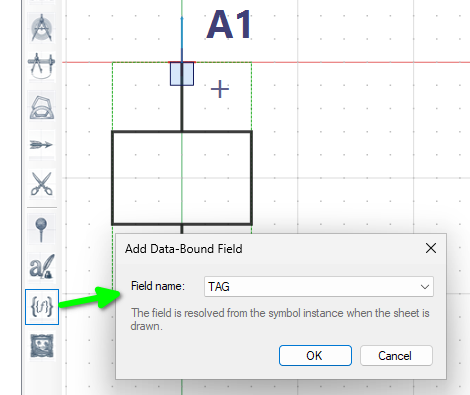
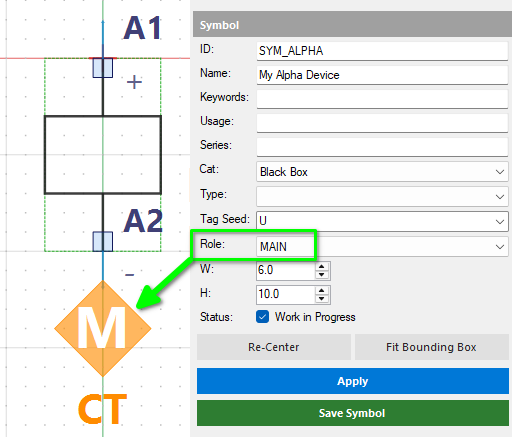
docs(tutorial): Ch8 gains Part 5 Contact Roles in a symbol; shots renumbered 15-24

diff --git a/control-circuit-2026/docs/tutorial/08-symbol-editor-basics/index.html b/control-circuit-2026/docs/tutorial/08-symbol-editor-basics/index.html
@@ -27,7 +27,7 @@
 
   <p>There are many additional elements that make a symbol smarter, the chief one being the <b>Field</b>. Fields are pre-defined variable placeholders, for example KW, AMPS or FLC. In the Symbol Editor they appear as placeholder text, but on a Sheet they become dynamic and can be populated with specific values for each symbol, ready for reports and other outputs.</p>
 
-  <p>In this chapter we cover the basics: the use and management of libraries, creating a symbol, and adding Pins, a Tag and Fields.</p>
+  <p>In this chapter we cover the basics: the use and management of libraries, creating a symbol, and adding Pins, a Contact Role, a Tag and Fields.</p>
 
   <h2>Part 1: Getting around</h2>
 
@@ -69,7 +69,7 @@
     <li><b>Name</b> is how the symbol appears in the library listing, what you will see in the explorer.</li>
     <li><b>Cat</b> (Category) and <b>Type</b> are useful for sorting.</li>
     <li><b>Tag Seed</b> pre-seeds the Tag when the symbol is pulled onto a Sheet. Very important.</li>
-    <li><b>Role</b> sets the default Contact Role, as met in the previous chapter: <b>MAIN</b>, <b>NO</b>, <b>NC</b> or <b>AUX</b>, depending on the function of the component.</li>
+    <li><b>Role</b> sets the default Contact Role, as met in the previous chapter: <b>MAIN</b>, <b>NO</b>, <b>NC</b> or <b>AUX</b>, depending on the function of the component. More on this in Part 5.</li>
     <li><b>W</b> and <b>H</b> are the <b>Bounding Box</b> (BB). On a Sheet the BB is the highlighted perimeter displayed when the symbol is selected. In the Symbol Editor it is the green dotted rectangle running from the red origin cross to the extents of all the primitives. Text objects are not included in the BB.</li>
     <li><b>Status</b>: if you have started one or more symbol designs, they are works in progress, so set the status accordingly. These symbols are marked in the tree, and they can be searched for in the library regardless of which section they are in.</li>
   </ul>
@@ -169,7 +169,29 @@
     </li>
   </ol>
 
-  <h2>Part 5: Adding Fields</h2>
+  <h2>Part 5: Contact Roles in a symbol</h2>
+
+  <p>If we know that a certain symbol will usually represent a certain Contact Role, we may optionally choose that role and set it as the default in the symbol. When the symbol is brought onto a Sheet, its <b>Role</b> will show something like <b>None (Inherit: MAIN)</b>. If you leave the Role out at the symbol stage you can still choose one on the Sheet, and if you do set one in the symbol you can still change it on the Sheet.</p>
+
+  <p>Once a Role has been selected in the Symbol Editor, a diamond glyph is shown on the symbol. The <b>M</b> denotes <b>MAIN</b>, and the <b>CT</b> beneath it stands for the <b>Contact Table</b>, which a MAIN element carries. You can mouse down on the diamond and move it to suit. Once the symbol is in use on a Sheet you will also have <b>Role X</b> and <b>Role Y</b> values to fine tune the position if required.</p>
+
+  <figure>
+    <img src="15.png" alt="The Role drop down set to MAIN, with a green arrow to the orange M diamond and its CT text below the symbol" width="512" height="437">
+  </figure>
+
+  <p>In the next example the Role is set to <b>NO</b> (Normally Open), so the diamond displays an <b>O</b>. Normally Closed shows a <b>C</b> and AUX shows an <b>A</b>.</p>
+
+  <figure>
+    <img src="16.png" alt="The Role drop down set to NO, with a green arrow to the orange O diamond" width="451" height="200">
+  </figure>
+
+  <p>Finally, here is a symbol with an assigned Contact Role once it has been brought onto a Sheet. As this is a MAIN element, you will notice that <b>Browse Parent Coils&hellip;</b> is greyed out: only the child roles (NO, NC and AUX) need to find a parent.</p>
+
+  <figure>
+    <img src="17.png" alt="A placed symbol with its Cross Reference section showing Role None (Inherit: MAIN), a greyed Browse Parent Coils button, Role X 0.0 and Role Y 14.0, and a green arrow to the M diamond" width="558" height="246">
+  </figure>
+
+  <h2>Part 6: Adding Fields</h2>
 
   <p>Now for Fields. The default and most critical one is for the Tag.</p>
 
@@ -178,11 +200,11 @@
       <h3>Add the Tag field</h3>
       <p>Press the <b>Field</b> tool, click down anywhere, then select <b>TAG</b> (the default) and press <b>OK</b>.</p>
       <figure>
-        <img src="15.png" alt="The Add Data-Bound Field dialog with the Field name TAG chosen, and a green arrow pointing at the Field tool" width="470" height="395">
+        <img src="18.png" alt="The Add Data-Bound Field dialog with the Field name TAG chosen, and a green arrow pointing at the Field tool" width="470" height="395">
       </figure>
       <p>As the dialog notes, field values are resolved by Control Circuit once an actual instance of the symbol is placed on a Sheet. Press <kbd>Esc</kbd> to put the Field tool away, then select the <b>[TAG]</b> placeholder to see its properties.</p>
       <figure>
-        <img src="16.png" alt="The Text / Field properties for the TAG placeholder: X, Y, Font-size, Anchor, Rotation, Colour and Field" width="717" height="281">
+        <img src="19.png" alt="The Text / Field properties for the TAG placeholder: X, Y, Font-size, Anchor, Rotation, Colour and Field" width="717" height="281">
       </figure>
       <div class="note"><b>Note</b> Once a particular system field such as TAG has been used on a symbol, it no longer shows in the selection list.</div>
     </li>
@@ -191,20 +213,20 @@
       <h3>Add a couple more</h3>
       <p>There are lots of Field values built in, and you can add some custom ones too (see <b>Tools</b> &rsaquo; <b>Configure</b> &rsaquo; <b>Field Values</b>). Add a couple more Fields, any you like, and then we will see how they behave on a Sheet.</p>
       <figure>
-        <img src="17.png" alt="The symbol with the placeholders [TAG], [VOLTAGE] and [CURRENT] stacked beside it" width="430" height="352">
+        <img src="20.png" alt="The symbol with the placeholders [TAG], [VOLTAGE] and [CURRENT] stacked beside it" width="430" height="352">
       </figure>
       <p>Save your symbol and close the Symbol Editor (<kbd>F12</kbd> closes it too).</p>
     </li>
   </ol>
 
-  <h2>Part 6: Using your symbol</h2>
+  <h2>Part 7: Using your symbol</h2>
 
   <ol class="steps">
     <li>
       <h3>Select your library</h3>
       <p>Back in the main editor, open the <b>Symbols</b> tab and ensure your new custom library is selected.</p>
       <figure>
-        <img src="18.png" alt="The Symbols tab with the library drop down open, CUSTOM_LIB (User) ticked above IEC_BASIC, NFPA_BASIC and TERMS_BASIC" width="445" height="156">
+        <img src="21.png" alt="The Symbols tab with the library drop down open, CUSTOM_LIB (User) ticked above IEC_BASIC, NFPA_BASIC and TERMS_BASIC" width="445" height="156">
       </figure>
     </li>
 
@@ -212,7 +234,7 @@
       <h3>Fill in the Field values</h3>
       <p>Drag the symbol onto the Sheet, select it and expand the <b>Fields</b> section of its Properties panel. Now you can enter specific values for that symbol. Be sure to press <b>Apply</b> after any update!</p>
       <figure>
-        <img src="19.png" alt="The placed symbol selected, with the Fields section open showing empty VOLTAGE and CURRENT entries and an Apply button" width="655" height="257">
+        <img src="22.png" alt="The placed symbol selected, with the Fields section open showing empty VOLTAGE and CURRENT entries and an Apply button" width="655" height="257">
       </figure>
       <p>Until the symbol is numbered, its Tag shows the <b>Tag Seed</b> (the U here) rather than a finished Tag.</p>
       <div class="note"><b>Handy tip</b> Control Circuit&rsquo;s engines do not themselves collect any data from custom Field values, but it is a trivial matter to write a script that parses the Sheet XML files and aggregates the information in these Fields.</div>
@@ -222,7 +244,7 @@
       <h3>Recall the last symbol</h3>
       <p>Back in the Symbol Editor, if you want your last symbol to be recalled automatically the next time it opens, tick <b>Options</b> &rsaquo; <b>Recall Symbol</b>.</p>
       <figure>
-        <img src="20.png" alt="The Symbol Editor Options menu with Recall Symbol ticked and outlined" width="260" height="112">
+        <img src="23.png" alt="The Symbol Editor Options menu with Recall Symbol ticked and outlined" width="260" height="112">
       </figure>
     </li>
 
@@ -230,7 +252,7 @@
       <h3>Mark the symbol as finished</h3>
       <p>And for completeness: when the design is done, untick the symbol&rsquo;s <b>Work in Progress</b> box, press <b>Apply</b> and save. The library explorer then shows it as a completed symbol, and the Work in Progress group disappears.</p>
       <figure>
-        <img src="21.png" alt="The library tree showing My Alpha Device under Black Box with no Work in Progress group, and a green arrow from it to the Work in Progress tick box, now unticked" width="567" height="248">
+        <img src="24.png" alt="The library tree showing My Alpha Device under Black Box with no Work in Progress group, and a green arrow from it to the Work in Progress tick box, now unticked" width="567" height="248">
       </figure>
     </li>
   </ol>
@@ -240,6 +262,7 @@
     <li>Opened the <b>Symbol Editor</b> and met its dedicated help, in <b>Locked</b> and <b>Live</b> modes.</li>
     <li>Learned the Symbol properties (<b>ID</b>, <b>Name</b>, <b>Tag Seed</b>, <b>Role</b>, <b>Bounding Box</b>, <b>Status</b>) and the Pin properties (<b>ID</b>, <b>Label</b>, <b>Type</b>, <b>Dir</b>, <b>End Prep</b>).</li>
     <li>Created a <b>custom library</b> and a <b>work in progress</b> symbol with two Pins on the 5 mm grid.</li>
+    <li>Gave a symbol a default <b>Contact Role</b>, and saw it inherited on a Sheet.</li>
     <li>Added the <b>TAG</b> Field and others, then filled in their values on a Sheet.</li>
   </ul>
 
